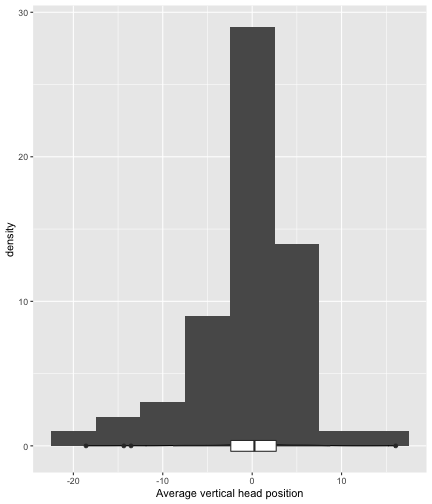
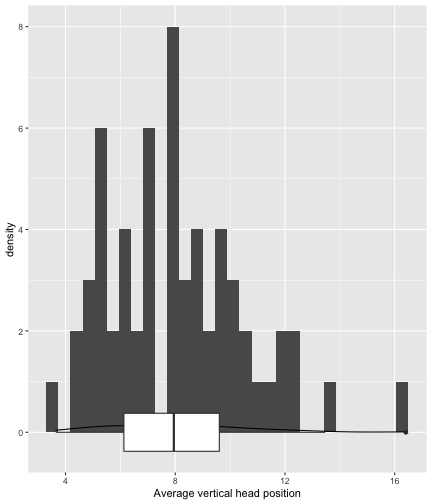
added more plot options

Changed region(s): [[0.0301, 0.0, 0.963, 1.0], [0.1505, 0.9226, 0.1806, 0.9821]]

diff --git a/docs/index.html b/docs/index.html
@@ -311,12 +311,12 @@ ggplot(DATASET, aes(MAPPING STATEMENT)) +
 ---
 count: false
  
-Simple histogram
+Single-aesthetic plots
 .panel1-geoms-rotate[
 
 ```r
-ggplot(ds, aes(x = posy_mean)) +
-* geom_histogram(binwidth = 5) +
+ggplot(ds, aes(x = posy_std)) +
+* geom_histogram() +
   xlab("Average vertical head position")
 ```
 ]
@@ -328,11 +328,11 @@ ggplot(ds, aes(x = posy_mean)) +
 ---
 count: false
  
-Simple histogram
+Single-aesthetic plots
 .panel1-geoms-rotate[
 
 ```r
-ggplot(ds, aes(x = posy_mean)) +
+ggplot(ds, aes(x = posy_std)) +
 * geom_density() +
   xlab("Average vertical head position")
 ```
@@ -345,11 +345,11 @@ ggplot(ds, aes(x = posy_mean)) +
 ---
 count: false
  
-Simple histogram
+Single-aesthetic plots
 .panel1-geoms-rotate[
 
 ```r
-ggplot(ds, aes(x = posy_mean)) +
+ggplot(ds, aes(x = posy_std)) +
 * geom_boxplot() +
   xlab("Average vertical head position")
 ```
@@ -381,6 +381,101 @@ ggplot(ds, aes(x = posy_mean)) +
   width: NA%;
   hight: 33%;
   float: left;
+  padding-left: 1%;
+  font-size: 80%
+}
+&lt;/style&gt;
+
+
+
+
+
+---
+count: false
+ 
+Add a category
+.panel1-categorical-rotate[
+
+```r
+ggplot(ds) +
+*geom_boxplot(aes(y = posy_std))
+```
+]
+ 
+.panel2-categorical-rotate[
+![](index_files/figure-html/categorical_rotate_01_output-1.png)&lt;!-- --&gt;
+]
+
+---
+count: false
+ 
+Add a category
+.panel1-categorical-rotate[
+
+```r
+ggplot(ds) +
+*geom_boxplot(aes(x = condition, y = posy_std))
+```
+]
+ 
+.panel2-categorical-rotate[
+![](index_files/figure-html/categorical_rotate_02_output-1.png)&lt;!-- --&gt;
+]
+
+---
+count: false
+ 
+Add a category
+.panel1-categorical-rotate[
+
+```r
+ggplot(ds) +
+*geom_boxplot(aes(x = condition, y = posy_std, fill = condition))
+```
+]
+ 
+.panel2-categorical-rotate[
+![](index_files/figure-html/categorical_rotate_03_output-1.png)&lt;!-- --&gt;
+]
+
+---
+count: false
+ 
+Add a category
+.panel1-categorical-rotate[
+
+```r
+ggplot(ds) +
+*geom_boxplot(aes(x = condition, y = posy_std, fill = target))
+```
+]
+ 
+.panel2-categorical-rotate[
+![](index_files/figure-html/categorical_rotate_04_output-1.png)&lt;!-- --&gt;
+]
+
+&lt;style&gt;
+.panel1-categorical-rotate {
+  color: black;
+  width: 65.3333333333333%;
+  hight: 32%;
+  float: none;
+  padding-left: 1%;
+  font-size: 80%
+}
+.panel2-categorical-rotate {
+  color: black;
+  width: 32.6666666666667%;
+  hight: 32%;
+  float: none;
+  padding-left: 1%;
+  font-size: 80%
+}
+.panel3-categorical-rotate {
+  color: black;
+  width: NA%;
+  hight: 33%;
+  float: none;
   padding-left: 1%;
   font-size: 80%
 }
